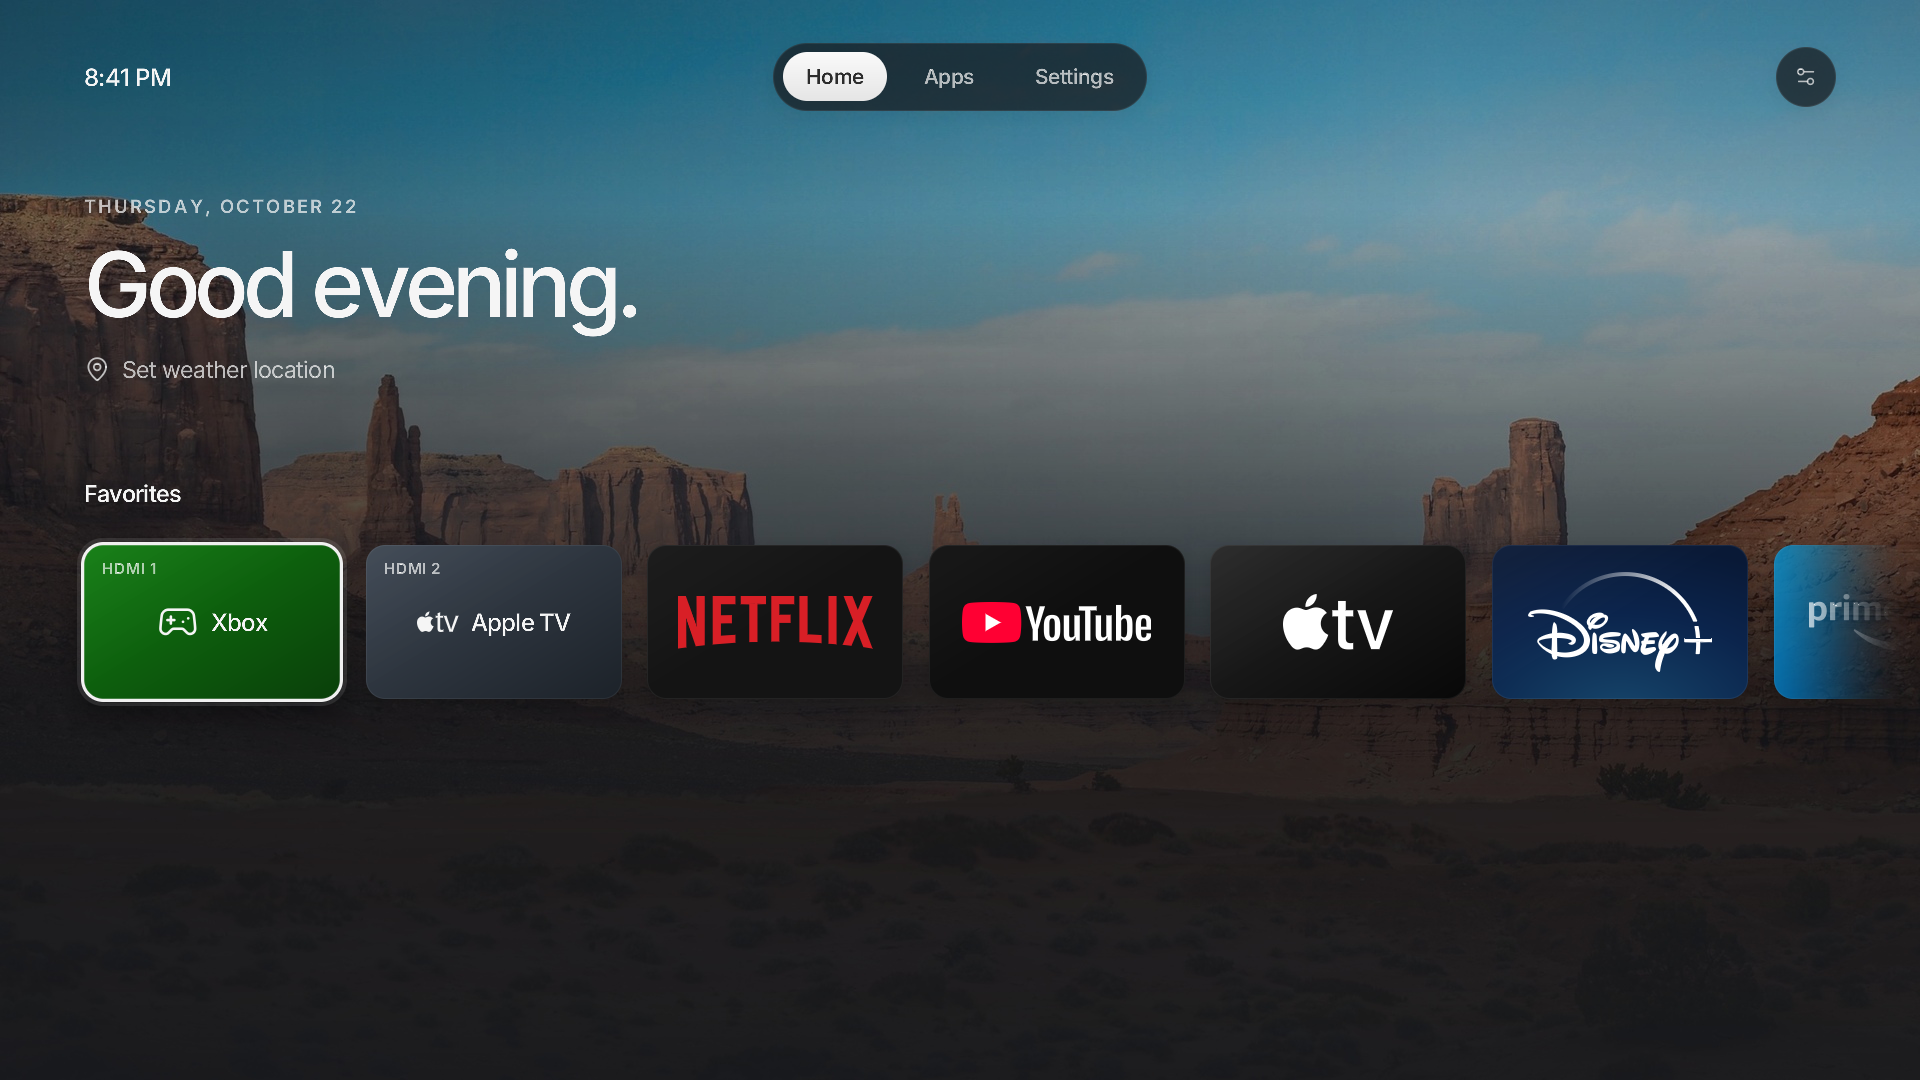
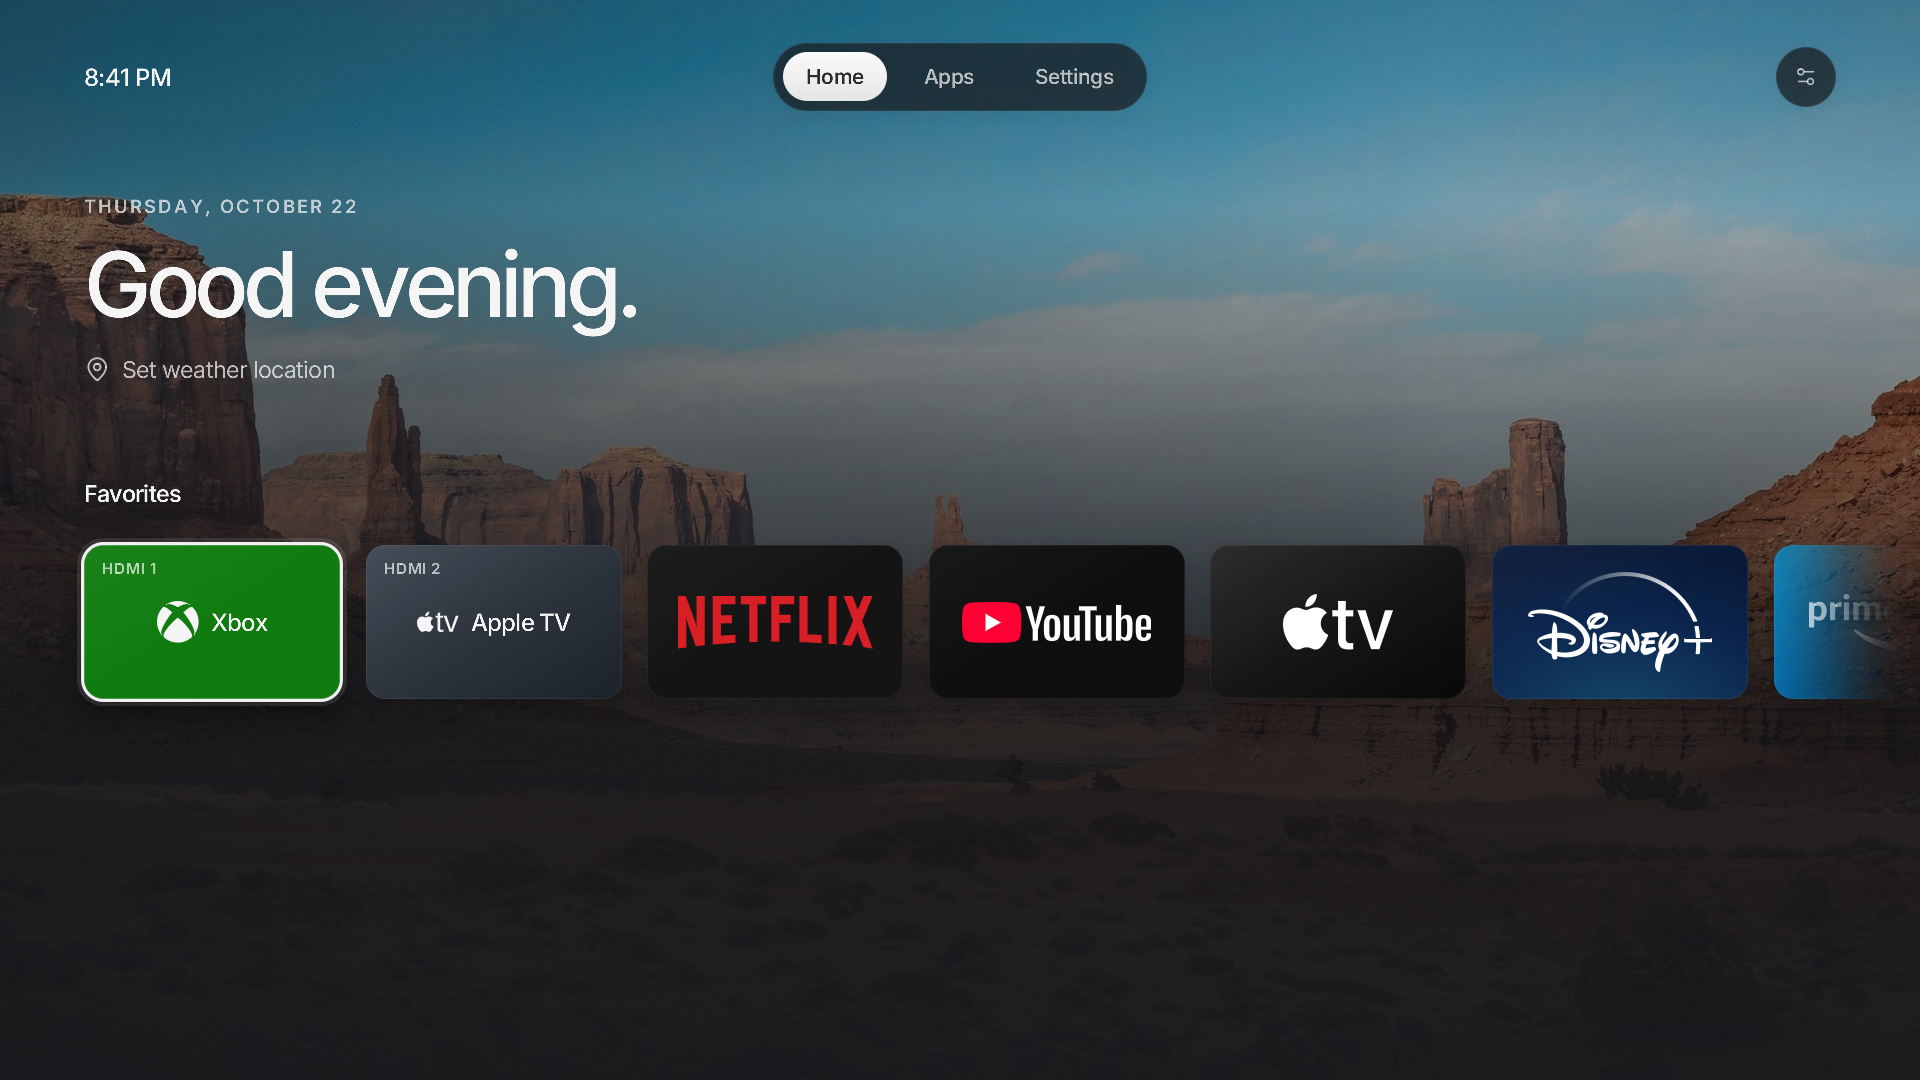
feat: official Xbox, Nintendo Switch and PlayStation marks and colours
Console input cards now use each brand's mark (Simple Icons; Xbox and
Nintendo Switch from the 12.0.0 tag, before upstream removed them) on a
flat official brand colour: Xbox #107C10, Nintendo Switch #E60012 and
PlayStation #003791. Settings input rows use the same marks.

Claude-Session: https://claude.ai/code/session_01GdsoH5Kdp4P3wVC3CWTqDy

Changed region(s): [[0.0312, 0.4889, 0.1875, 0.6722]]

diff --git a/src/view.rs b/src/view.rs
@@ -2970,6 +2970,8 @@ pub fn input_icon_name(
 ) -> &'static str {
     match input_icon(input, custom, device) {
         "playstation" => "input-playstation",
+        "xbox" => "input-xbox",
+        "nintendo-switch" => "input-nintendo-switch",
         "apple-tv" => "input-apple-tv",
         "usb" => "input-usb",
         "console" => "input-console",
@@ -2988,10 +2990,11 @@ fn device_icon(name: &str) -> &'static str {
         "apple-tv"
     } else if name.contains("usb") {
         "usb"
-    } else if ["xbox", "switch", "console"]
-        .iter()
-        .any(|part| name.contains(part))
-    {
+    } else if name.contains("xbox") {
+        "xbox"
+    } else if name.contains("nintendo") || name == "switch" {
+        "nintendo-switch"
+    } else if ["switch", "console"].iter().any(|part| name.contains(part)) {
         "console"
     } else if ["pc", "computer", "laptop"]
         .iter()

diff --git a/src/model.rs b/src/model.rs
@@ -112,7 +112,7 @@ impl Console {
         }
     }
 
-    /// Card surface key (see `tools/assets.mjs`).
+    /// Card surface key (see `tools/assets.mjs`), in the console's official brand colour.
     pub fn brand(self) -> &'static str {
         match self {
             Self::Xbox => "input-xbox",
@@ -121,11 +121,12 @@ impl Console {
         }
     }
 
-    /// Interface icon, without the `input-` prefix used by the settings rows.
+    /// The console's brand mark, without the `input-` prefix used by the settings rows.
     pub fn icon(self) -> &'static str {
         match self {
+            Self::Xbox => "xbox",
+            Self::NintendoSwitch => "nintendo-switch",
             Self::PlayStation => "playstation",
-            Self::Xbox | Self::NintendoSwitch => "console",
         }
     }
 

diff --git a/development.md b/development.md
@@ -189,8 +189,8 @@ Visible HDMI inputs are cards at the far left of the Home favorites strip, order
 than a separate row. They launch like apps but are not favorites: they cannot be reordered, hidden
 from Apps or opened in app options, and they do not appear on the Apps page. Visibility and names
 stay in **Settings → Widgets → Inputs**. Each card shows its port (and **No signal** while the
-source sleeps) in the corner. A recognized console gives the card its name and colour: Xbox
-(green), Nintendo Switch (red) or PlayStation (blue). Recognition reads what the source reports
+source sleeps) in the corner. A recognized console gives the card its name, brand mark and official
+colour: Xbox (#107C10), Nintendo Switch (#E60012) or PlayStation (#003791). Recognition reads what the source reports
 about itself in `getAllInputStatus`: the HDMI SPD InfoFrame vendor/product and CEC OSD name fields
 first (`spdVendorName`, `spdProductDescription`, `cecDeviceName`, `osdName`, `deviceName`, …),
 then the TV's label and other short string values, since field names vary between firmware

diff --git a/assets.md b/assets.md
@@ -25,7 +25,9 @@
 - Lucide interface icons: exported standalone SVG sources in `assets/ui-icons/`, ISC license
   bundled at `assets/licenses/lucide.txt`. The Luma upload icon and the small `luma-mark.svg` reuse
   original project artwork under MIT. PlayStation/Apple TV input paths were supplied by the user;
-  the brand marks belong to Sony/Apple. Spotify/Kodi symbol treatments use the original native
+  the brand marks belong to Sony/Apple. `input-xbox.svg` and `input-nintendo-switch.svg` are the
+  Simple Icons 12.0.0 marks (CC0, later removed upstream; source URLs in each file); the marks belong
+  to Microsoft/Nintendo. Spotify/Kodi symbol treatments use the original native
   artwork. Logos identify third-party apps; Luma is unaffiliated with their owners.
 - SDL-webOS 2.30.12 (`release-2.30.12-webos.5`, standard SDL ABI), zlib license.
   `tools/webos-runtime.mjs` records archive/library SHA-256. Notice at `assets/licenses/sdl2.txt`.
